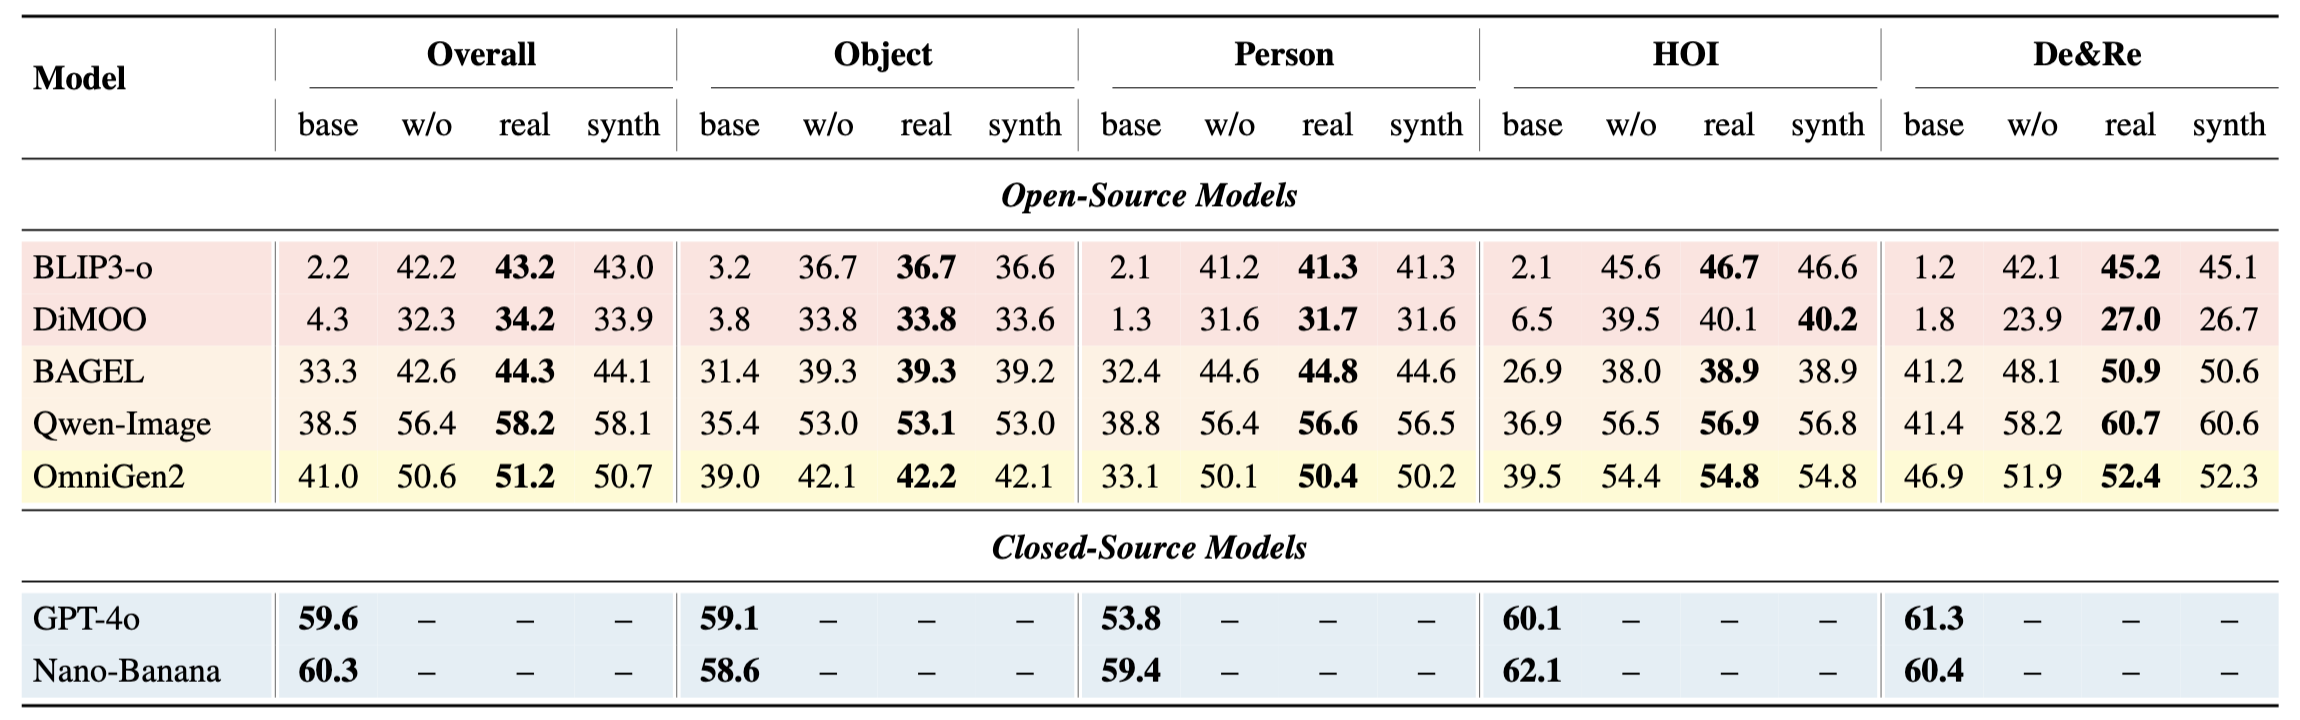
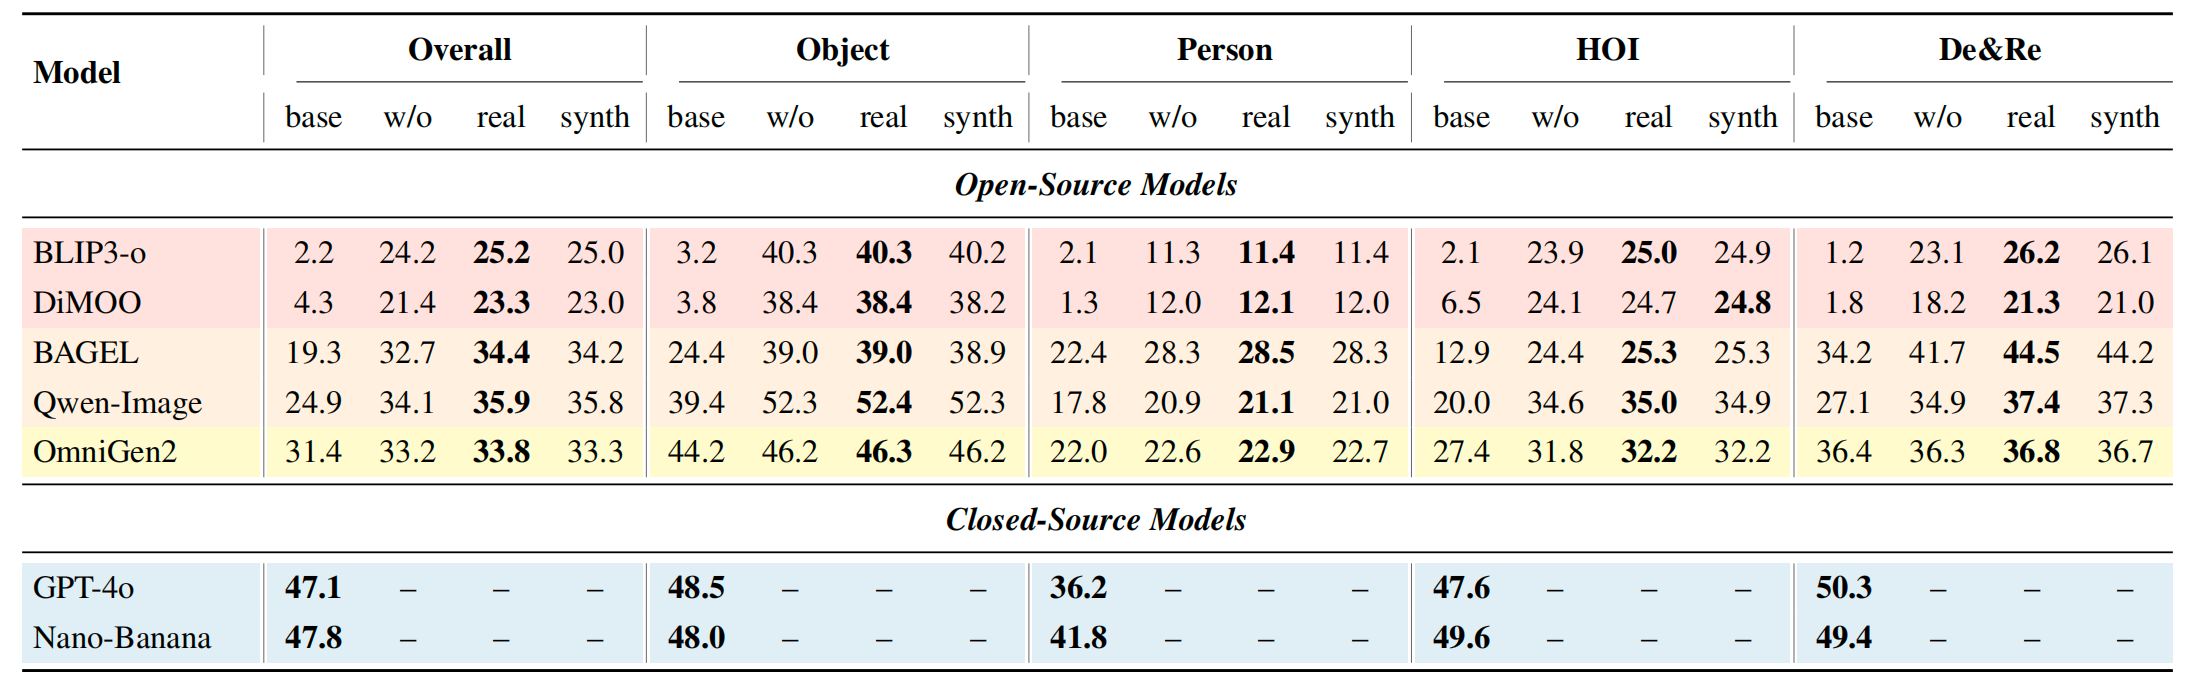
Update

diff --git a/index.html b/index.html
@@ -58,31 +58,31 @@
           </h3>
           <div class="is-size-5 publication-authors">
             <span class="author-block corresponding-author">
-              <a href="">Xinyu Wei</a><sup>1,4</sup>,&nbsp&nbsp
+              <a href="">Xinyu Wei</a><sup>1,5</sup>,&nbsp&nbsp
             </span>
             <span class="author-block corresponding-author">
-              <a href="">Kangrui Cen</a><sup>4</sup>,&nbsp&nbsp
+              <a href="">Kangrui Cen</a><sup>1,5</sup>,&nbsp&nbsp
             </span>
             <span class="author-block corresponding-author">
-              <a href="">Hongyang Wei</a><sup>2,4</sup>,&nbsp&nbsp
+              <a href="">Hongyang Wei</a><sup>2,5</sup>,&nbsp&nbsp
             </span>
             <span class="author-block">
-              <a href="">Kai Cui</a><sup>5</sup>,&nbsp&nbsp
+              <a href="">Zhen Guo</a><sup>1,5</sup>,&nbsp&nbsp
             </span>
             <span class="author-block">
-              <a href="">Zhen Guo</a><sup>1,4</sup>,&nbsp&nbsp
+              <a href="">Kai Cui</a><sup>3</sup>,&nbsp&nbsp
             </span>
             <span class="author-block">
-              <a href="">Bairui Li</a><sup>1,4</sup>,&nbsp&nbsp
+              <a href="">Bairui Li</a><sup>1,5</sup>,&nbsp&nbsp
             </span>
             <span class="author-block">
-              <a href="">Zeqing Wang</a><sup>3,4</sup>,&nbsp&nbsp
+              <a href="">Zeqing Wang</a><sup>4,5</sup>,&nbsp&nbsp
             </span>
             <span class="author-block">
-              <a href="">Jinrui Zhang</a><sup>1,4</sup>&nbsp&nbsp
+              <a href="">Jinrui Zhang</a><sup>1,5</sup>&nbsp&nbsp
             </span>
             <span class="author-block">
-              <a href="">Lei Zhang</a><sup>1,4</sup>
+              <a href="">Lei Zhang</a><sup>1,5</sup>
             </span>
           </div>
 
@@ -92,9 +92,9 @@
               <span class="author-block" style="margin-right: 25px;"><sup>2</sup>Tsinghua University</span>
             </div>
             <div>
-              <span class="author-block" style="margin-right: 25px;"><sup>3</sup>Sun Yat-Sen University</span>
-              <span class="author-block" style="margin-right: 25px;"><sup>4</sup>OPPO Research Institute</span>
-              <span class="author-block" style="margin-right: 25px;"><sup>5</sup>Peking University</span>
+              <span class="author-block" style="margin-right: 25px;"><sup>3</sup>Peking University</span>
+              <span class="author-block" style="margin-right: 25px;"><sup>4</sup>Sun Yat-Sen University</span>
+              <span class="author-block" style="margin-right: 25px;"><sup>5</sup>OPPO Research Institute</span>
             </div>
           </div>
 
